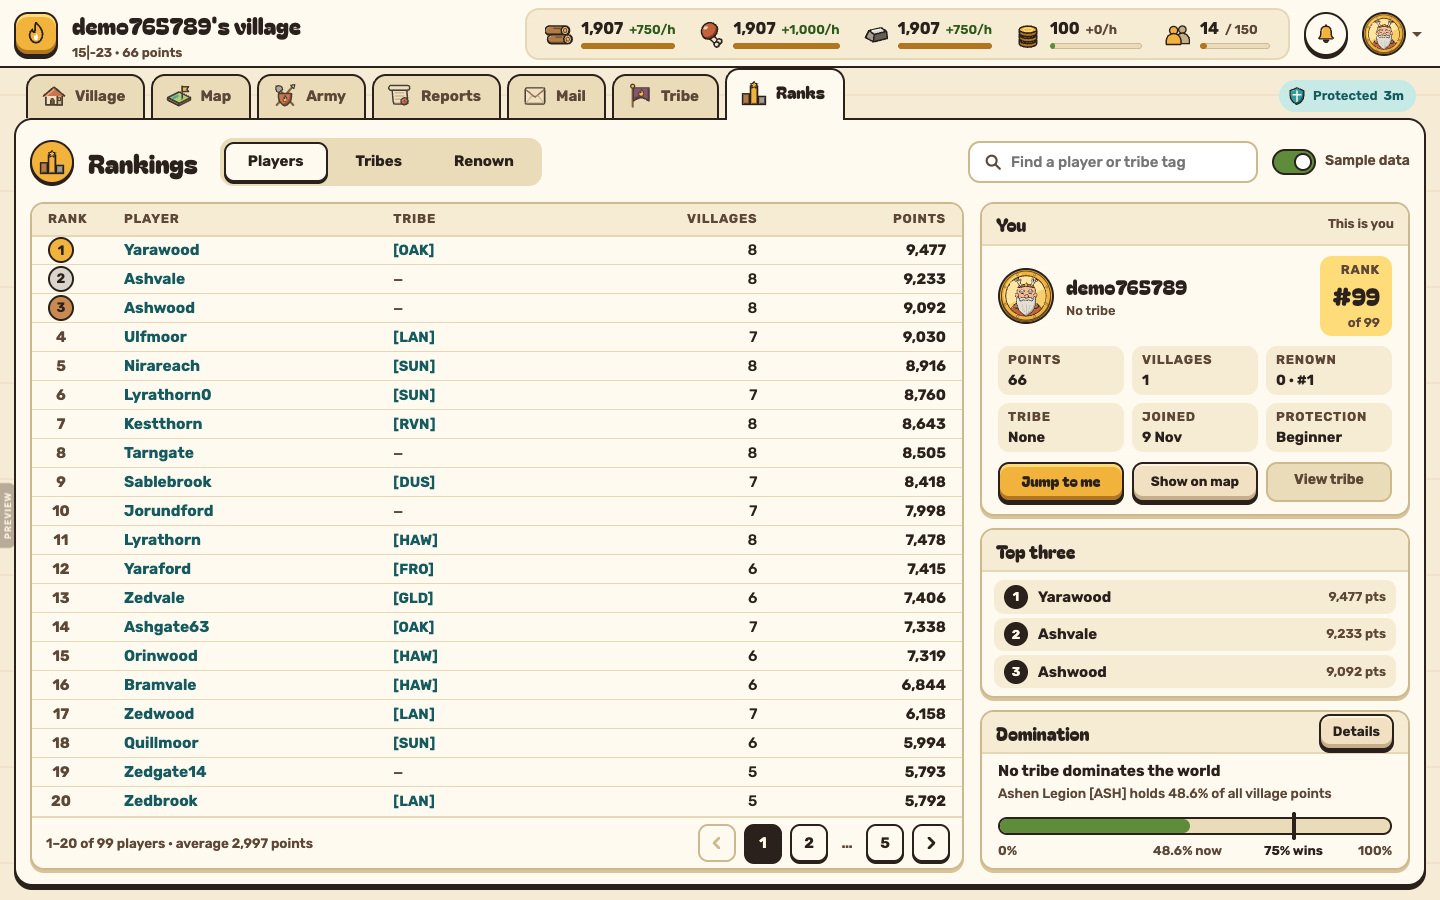
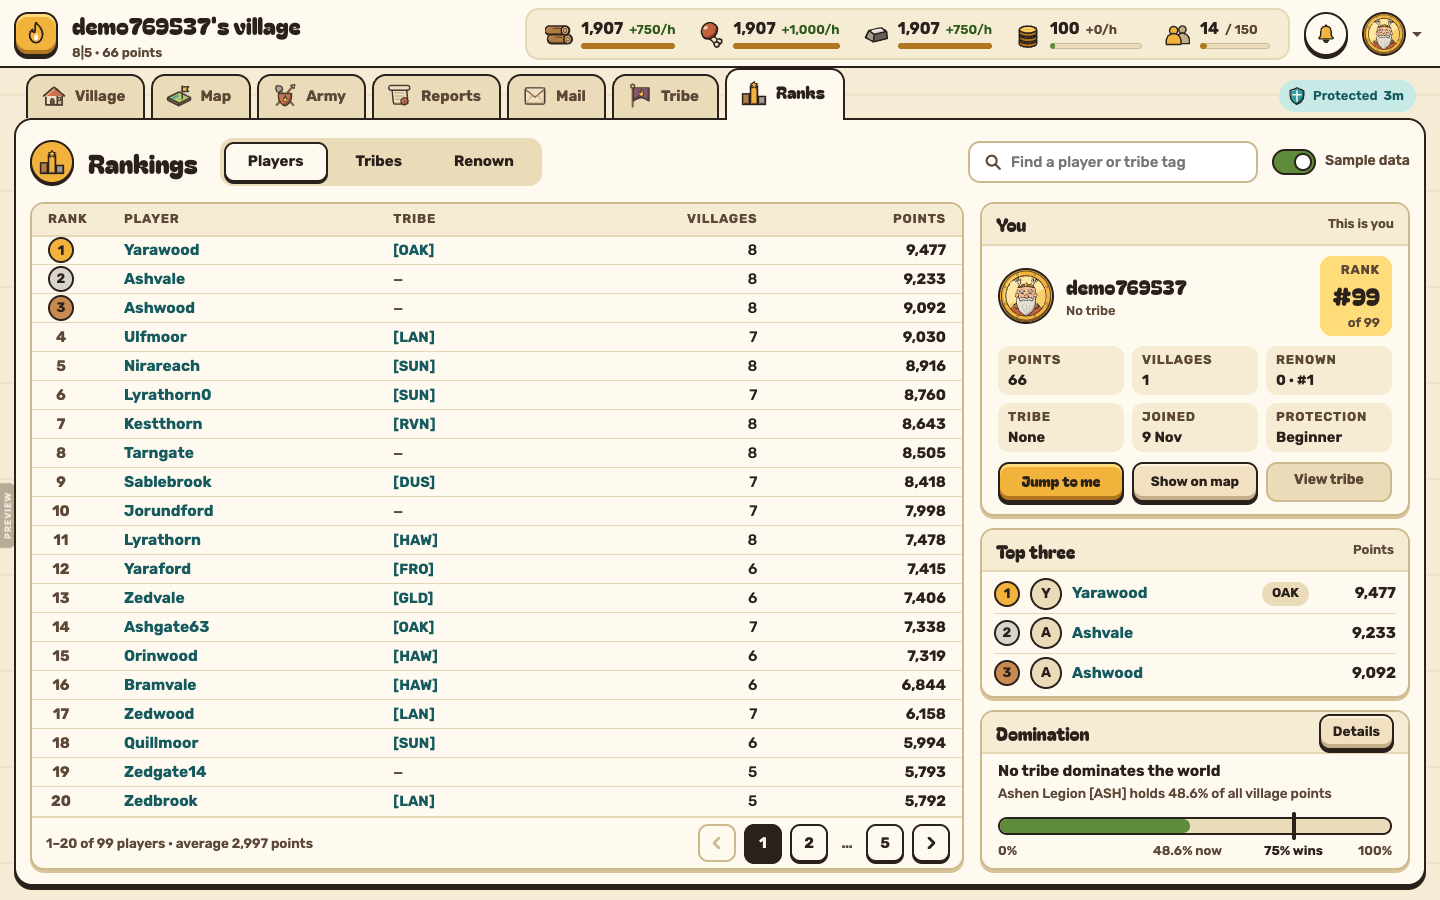
Ranks: Top three as a mini leaderboard (owner pick A)
Medal, portrait (initial when the rankings data has none), name, filled tribe
tag, points/renown right-aligned; same box height.

Changed region(s): [[0.6875, 0.5911, 0.9688, 0.7778], [0.0312, 0.0, 0.1562, 0.0622], [0.7812, 0.3111, 0.8438, 0.3422]]

diff --git a/apps/web/src/views/ranks/TopThree.tsx b/apps/web/src/views/ranks/TopThree.tsx
@@ -1,27 +1,44 @@
-// "Top three" box of the Ranks page's right column. Own small component so its design can be swapped without touching the page:
-// keep the props, and keep the box height (the You card above and the Domination box below depend on it). The look is TEMPORARY (plain list).
+// "Top three" box of the Ranks page's right column (owner pick "A · Mini leaderboard"): three calm rows, each a medal, a small portrait
+// (an initial circle when the ranking carries no portrait; a tag badge for tribes), the name as a link, the tribe tag and the value.
+// Keep the box height (the You card above and the Domination box below depend on it).
+
+import { ChieftainAvatar } from '../../art/Chieftain.tsx';
 
 export interface TopThreeItem {
   key: number;
   rank: number;
   name: string;
-  sub: string;
+  /** Tribe tag without brackets (players), or null. */
+  tag: string | null;
+  /** Right-aligned value, e.g. "14,920". */
+  value: string;
+  /** Chieftain portrait id when known; otherwise an initial circle (players) or the tag badge (`tribe`). */
+  chieftain?: string | null;
+  tribe?: boolean;
 }
 
-export function TopThree({ items, onPick }: { items: TopThreeItem[]; onPick: (key: number) => void }) {
+export function TopThree({ items, valueLabel, onPick }: { items: TopThreeItem[]; valueLabel: string; onPick: (key: number) => void }) {
   return (
     <section className="fv-pn frk-top3" aria-label="Top three">
       <div className="fv-ph">
         <h2>Top three</h2>
+        <span className="fv-sp" />
+        <span className="fv-mut">{valueLabel}</span>
       </div>
       <ol className="frk-t3">
         {items.slice(0, 3).map((it) => (
-          <li key={it.key}>
-            <button type="button" className="frk-t3-b" onClick={() => onPick(it.key)} aria-label={`${it.name}, rank ${it.rank}, ${it.sub}`}>
-              <span className="frk-t3-n">{it.rank}</span>
-              <b>{it.name}</b>
-              <span className="fv-mut">{it.sub}</span>
-            </button>
+          <li key={it.key} className="frk-t3-r">
+            <span className={`frk-md g${it.rank}`} aria-label={`Rank ${it.rank}`}>{it.rank}</span>
+            {it.tribe ? (
+              <span className="frk-t3-av is-tag" aria-hidden="true">{it.tag}</span>
+            ) : it.chieftain ? (
+              <span className="frk-t3-av"><ChieftainAvatar id={it.chieftain} size={32} /></span>
+            ) : (
+              <span className="frk-t3-av is-init" aria-hidden="true">{it.name.slice(0, 1).toUpperCase()}</span>
+            )}
+            <button type="button" className="frk-who frk-t3-n" onClick={() => onPick(it.key)}>{it.name}</button>
+            {!it.tribe && <span className="frk-t3-g">{it.tag && <span className="frk-tag">{it.tag}</span>}</span>}
+            <span className="frk-t3-v">{it.value}</span>
           </li>
         ))}
       </ol>

diff --git a/apps/web/src/views/ranks/FrameRanks.tsx b/apps/web/src/views/ranks/FrameRanks.tsx
@@ -21,6 +21,7 @@ import { Chev } from '../village/FrameParts.tsx';
 import { RANKS_PER_PAGE, RANK_SECTIONS, averagePoints, pageItems, pageOfIndex, playerRows, renownRows, searchPlayers, searchTribes, tribeRows } from './frame-ranks-logic.ts';
 import type { RankSection } from './frame-ranks-logic.ts';
 import { TopThree } from './TopThree.tsx';
+import type { TopThreeItem } from './TopThree.tsx';
 import '../../frame-ranks.css';
 
 /** Remembered while the player moves between tabs (like the phone page). */
@@ -404,12 +405,12 @@ export function FrameRanks() {
   }
 
   // ---- Top three (of the list shown, before any search) ----
-  const top: Array<{ key: number; rank: number; name: string; sub: string }> =
+  const top: TopThreeItem[] =
     section === 'players'
-      ? playerAll.slice(0, 3).map((p) => ({ key: p.playerId, rank: p.rank, name: p.username, sub: `${formatInt(p.points)} pts` }))
+      ? playerAll.slice(0, 3).map((p) => ({ key: p.playerId, rank: p.rank, name: p.username, tag: p.tribe?.tag ?? null, value: formatInt(p.points), chieftain: p.playerId === meId ? player.chieftain : null }))
       : section === 'tribes'
-        ? tribeAll.slice(0, 3).map((t) => ({ key: t.id, rank: t.rank, name: t.name, sub: `[${t.tag}] · ${formatInt(t.points)} pts` }))
-        : renownAll.slice(0, 3).map((p) => ({ key: p.playerId, rank: p.rank, name: p.username, sub: `${formatInt(p.renown)} Renown` }));
+        ? tribeAll.slice(0, 3).map((t) => ({ key: t.id, rank: t.rank, name: t.name, tag: t.tag, value: formatInt(t.points), tribe: true }))
+        : renownAll.slice(0, 3).map((p) => ({ key: p.playerId, rank: p.rank, name: p.username, tag: p.tribe?.tag ?? null, value: formatInt(p.renown), chieftain: p.playerId === meId ? player.chieftain : null }));
   const pickTop = (key: number) => {
     if (section === 'players') setPicked({ kind: 'player', id: key });
     else if (section === 'tribes') setPicked({ kind: 'tribe', id: key });
@@ -532,7 +533,7 @@ export function FrameRanks() {
               </div>
             </div>
           </section>
-          <TopThree items={top} onPick={pickTop} />
+          <TopThree items={top} valueLabel={section === 'renown' ? 'Renown' : 'Points'} onPick={pickTop} />
           <section className="fv-pn frk-dom" aria-label="Domination">
             <div className="fv-ph">
               <h2>Domination</h2>

diff --git a/apps/web/src/frame-ranks.css b/apps/web/src/frame-ranks.css
@@ -498,57 +498,96 @@
   min-height: 40px;
 }
 
-/* -- Top three (temporary look: swap with the new design, keep the height) -- */
+/* -- Top three (owner pick A: mini leaderboard) -- */
 .frk-t3 {
   display: flex;
   flex-direction: column;
-  gap: 4px;
   height: 124px;
   box-sizing: border-box;
   margin: 0;
-  padding: 8px 12px;
+  padding: 2px 12px 4px;
   list-style: none;
 }
 
-.frk-t3 li {
-  flex: 1;
-  min-height: 0;
-}
-
-.frk-t3-b {
+.frk-t3-r {
   display: flex;
   align-items: center;
   gap: 10px;
-  width: 100%;
-  height: 100%;
-  padding: 0 10px;
-  border: 0;
-  border-radius: 10px;
-  background: var(--surface-2);
-  color: var(--on-surface);
-  font: 700 15px/1.2 var(--font);
-  text-align: left;
-  cursor: pointer;
+  flex: 1;
+  min-height: 0;
+  border-top: 1px solid var(--edge-soft);
 }
 
-.frk-t3-b b {
+.frk-t3-r:first-child {
+  border-top: 0;
+}
+
+.frk-t3-av {
+  display: grid;
+  place-items: center;
+  flex: none;
+  box-sizing: border-box;
+  width: 32px;
+  height: 32px;
+  border: 2px solid var(--c-ink);
+  border-radius: 50%;
+  background: var(--c-sun);
+  overflow: hidden;
+}
+
+.frk-t3-av img {
+  display: block;
+  width: 100%;
+  height: 100%;
+}
+
+.frk-t3-av.is-init {
+  background: var(--surface-3);
+  color: var(--c-ink);
+  font: 700 14px/1 var(--font);
+}
+
+.frk-t3-av.is-tag {
+  width: auto;
+  min-width: 32px;
+  padding: 0 7px;
+  border-radius: 99px;
+  background: var(--surface-3);
+  color: var(--c-ink);
+  font: 700 12px/1 var(--font);
+}
+
+.frk-t3-n {
   flex: 1;
   min-width: 0;
+  height: 36px;
   overflow: hidden;
+  text-align: left;
   text-overflow: ellipsis;
   white-space: nowrap;
 }
 
-.frk-t3-n {
-  display: inline-grid;
-  place-items: center;
+.frk-t3-g {
   flex: none;
-  width: 24px;
+  width: 60px;
+}
+
+.frk-tag {
+  display: inline-flex;
+  align-items: center;
+  flex: none;
   height: 24px;
-  border-radius: 50%;
-  background: var(--dark);
-  color: var(--on-dark);
-  font: 700 13px/1 var(--font);
+  padding: 0 10px 1px;
+  border-radius: 99px;
+  background: var(--surface-3);
+  color: var(--on-surface);
+  font: 700 13px/1.2 var(--font);
+}
+
+.frk-t3-v {
+  min-width: 64px;
+  font: 700 15.5px/1.2 var(--font);
+  text-align: right;
 }
 
 /* -- Domination -- */
